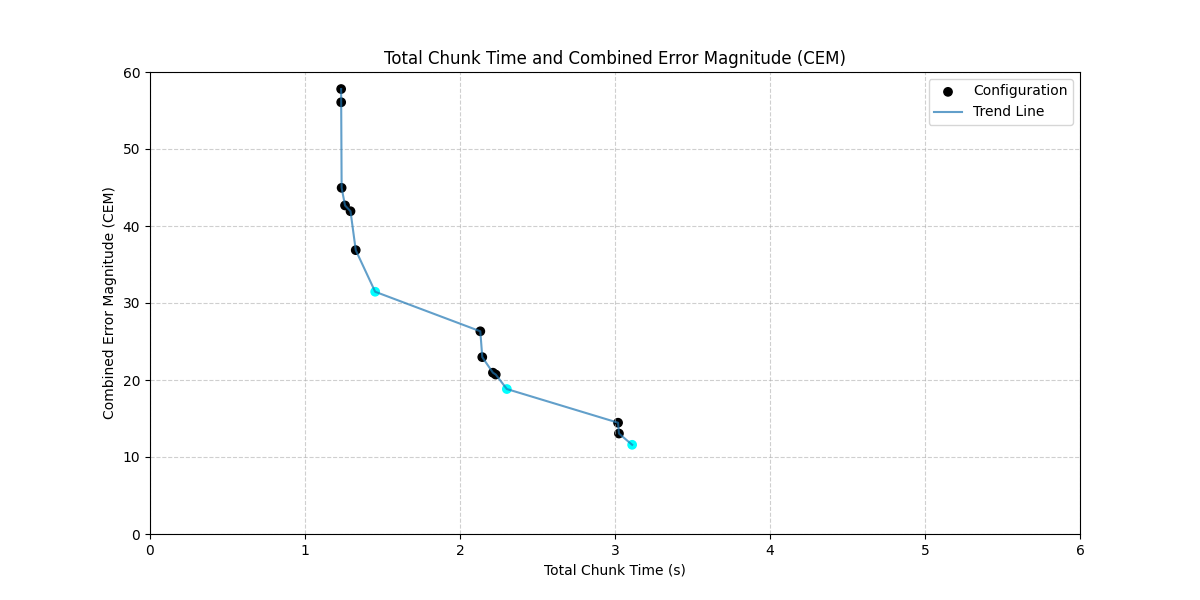
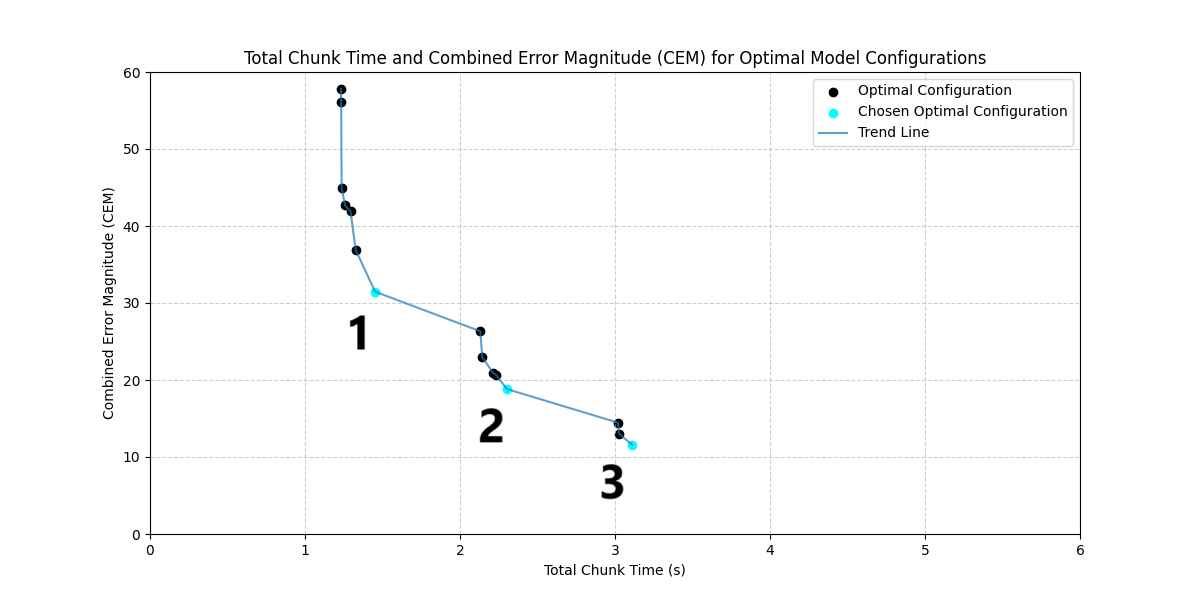
woman results processed

diff --git a/benchmarking/process_results.py b/benchmarking/process_results.py
@@ -103,12 +103,18 @@ def process_and_save_lowest_distance_points(top_combined_points, intervals, outp
 
 
 
+import pandas as pd
+import matplotlib.pyplot as plt
+
 def plot_chunk_time(csv_file):
     # Read the CSV file into a DataFrame
     df = pd.read_csv(csv_file)
 
     # Ensure necessary columns exist in the DataFrame
     required_columns = ["total_chunk_time", "distance_combined", "should_plot"]
+    if not all(col in df.columns for col in required_columns):
+        print("Error: CSV file must contain 'total_chunk_time', 'distance_combined', and 'should_plot' columns.")
+        return
 
     # Prepare data for plotting
     x = df["total_chunk_time"]
@@ -118,8 +124,13 @@ def plot_chunk_time(csv_file):
     # Create the figure
     plt.figure(figsize=(12, 6))
 
-    # Scatter plot with conditional coloring
-    plt.scatter(x, y, c=colors, label="Configuration")
+    # Plot the black points (optimal configurations)
+    black_points = df[~df["should_plot"]]
+    plt.scatter(black_points["total_chunk_time"], black_points["distance_combined"], c='black', label="Optimal Configuration")
+
+    # Plot the cyan points (chosen optimal configuration)
+    cyan_points = df[df["should_plot"]]
+    plt.scatter(cyan_points["total_chunk_time"], cyan_points["distance_combined"], c='cyan', label="Chosen Optimal Configuration")
 
     # Trend line (assuming x and y are already sorted or need sorting for the plot)
     sorted_indices = x.argsort()
@@ -127,10 +138,10 @@ def plot_chunk_time(csv_file):
 
     # Setting axis limits
     plt.xlim(0, 6)
-    plt.ylim(0, 60)
+    plt.ylim(0, 85)
 
     # Adding labels and title
-    plt.title("Total Chunk Time and Combined Error Magnitude (CEM)")
+    plt.title("Total Chunk Time and Combined Error Magnitude (CEM) for Optimal Model Configurations")
     plt.xlabel("Total Chunk Time (s)")
     plt.ylabel("Combined Error Magnitude (CEM)")
     plt.grid(True, linestyle="--", alpha=0.6)
@@ -138,6 +149,7 @@ def plot_chunk_time(csv_file):
 
     # Show the plot
     plt.show()
+
 
 def distance_total_time_table(top_combined_points, take_latency_into_account):
     if take_latency_into_account:
@@ -214,10 +226,10 @@ path_backend_man = './results/Results_man/raw_data/backend/results_avg.csv'
 path_client_man = './results/Results_man/raw_data/client/results_client_avg.csv'
 processed_results_woman = './results/Results_woman/processed_results/'
 processed_results_man = './results/Results_man/processed_results/'
-current_path = "man"
+current_path = "woman"
 
-results = pd.read_csv(path_backend_man)
-results_client = pd.read_csv(path_client_man)
+results = pd.read_csv(path_backend_woman)
+results_client = pd.read_csv(path_client_woman)
 
 if current_path != 'woman':
     results['Word Error Rate (WER)'] = results['Word Error Rate (WER)'].str.rstrip('%').astype(float)
@@ -226,7 +238,7 @@ if current_path != 'woman':
 
 
 def run_process_results (with_latency, current_path):
-    plot_chunk_time('./results/Results_man/processed_results/testo.csv')
+    plot_chunk_time('./results/Results_woman/processed_results/testo.csv')
     # # Parameters
     # top_x_num_points = 10000
     # weight = 1
@@ -245,14 +257,14 @@ def run_process_results (with_latency, current_path):
     # plot_error_bars(top_combined_points, 'confidence_based', 'total_chunk_time', 'model_type', 'Confidence based', 'Total chunk time', 'Latency vs. Confidence based')
 
     # if take_latency_into_account:
-    #     top_combined_points.to_csv(processed_results_man + 'top_combined_points_with_latency.csv', index=False)
+    #     top_combined_points.to_csv(processed_results_woman + 'top_combined_points_with_latency.csv', index=False)
     # else: 
-    #     top_combined_points.to_csv(processed_results_man + 'top_combined_points_without_latency.csv', index=False)
+    #     top_combined_points.to_csv(processed_results_woman + 'top_combined_points_without_latency.csv', index=False)
 
     # distance_total_time_table(top_combined_points, take_latency_into_account)
 
     # if take_latency_into_account:
-    #     process_and_save_lowest_distance_points(top_combined_points, [0.5, 1, 1.5, 2, 2.5, 3, 3.5, 4, 4.5, 5, 5, 5.5, 6, 6.5, 7, 7.5, 8], processed_results_man + 'testo.csv', take_latency_into_account)
+    #     process_and_save_lowest_distance_points(top_combined_points, [0.5, 1, 1.5, 2, 2.5, 3, 3.5, 4, 4.5, 5, 5, 5.5, 6, 6.5, 7, 7.5, 8], processed_results_woman + 'testo.csv', take_latency_into_account)
     # else:
     #     process_and_save_lowest_distance_points(top_combined_points, [1, 2, 3, 4, 5, 6, 7, 8, 9, 10], processed_results_man + 'lowest_distance_per_interval_without_latency.csv', take_latency_into_account)
 
